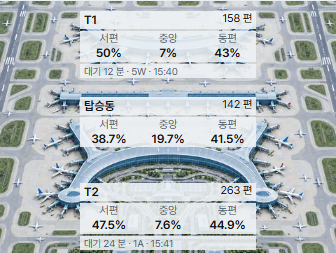
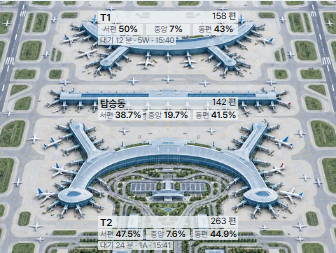
Shrink mobile airport labels and simplify worker summaries

Changed region(s): [[0.2381, 0.7194, 0.7738, 0.996], [0.2381, 0.0277, 0.7738, 0.332], [0.2381, 0.3597, 0.7738, 0.581]]

diff --git a/app/airport-glance-preview.tsx b/app/airport-glance-preview.tsx
@@ -61,8 +61,11 @@ export default function AirportGlancePreview({lang,artworkSrc=null}:{lang:Lang;a
  const futureReady=Boolean(data&&summary&&Number.isFinite(clock)&&Number.isFinite(Date.parse(summary.generatedAt)));
  const upcoming=futureReady&&data?glanceUpcoming(day,data.departures,clock):null;
  const future=isToday&&futureReady&&data?glanceFutureWindow(day,data.departures,clock,futureHours):null;
- const fc={ko:{title:'향후 시간대 항공편 분포',hours:'시간',ahead:'향후',zones:'위치 확인된 출발편 최다 구역',countries:'같은 시간 주요 목적지',basis:'선택 구간 출발 예정편 · 하루 전체와 별도 · 고객 수·매장 혼잡 아님',zoneBasis:'아래 비중은 각 건물 전체 기준 · 미정 포함',countryBasis:'선택 구간 전체 편수 기준 · 승객 국적 아님',closed:'오늘과 확인된 기준시각에서만 제공',midnight:'자정까지 표시 · 다음 날 자료 미포함',none:'선택 구간에 확인된 예정편 없음',more:'목적지 전체',unplaced:'건물 미정'},en:{title:'Upcoming flight distribution',hours:'h',ahead:'Next',zones:'Known zones with most departures',countries:'Destinations in the same window',basis:'Scheduled flights in selected window · separate from whole-day totals · not customers or shop crowding',zoneBasis:'Shares below use each building’s total, including unknown',countryBasis:'Share of all flights in this window · not passenger nationality',closed:'Available only for today with a verified clock',midnight:'Capped at midnight · next-day data not included',none:'No verified scheduled departures in this window',more:'All destinations',unplaced:'Unknown building'},zh:{title:'未来时段航班分布',hours:'小时',ahead:'未来',zones:'已确认位置中出发航班最多的区域',countries:'同时段主要目的地',basis:'所选时段计划出发航班 · 与全天分开 · 非顾客人数或店铺拥挤度',zoneBasis:'下列比例以各建筑全部航班为基数，含未定',countryBasis:'以所选时段全部航班为基数 · 非旅客国籍',closed:'仅限今日且基准时间已确认',midnight:'截至午夜 · 不含次日资料',none:'所选时段无已确认计划出发航班',more:'全部目的地',unplaced:'建筑未定'},ja:{title:'今後の時間帯の便分布',hours:'時間',ahead:'今後',zones:'位置確認済みの出発便が最多のエリア',countries:'同じ時間帯の主な目的地',basis:'選択時間帯の出発予定便 · 終日の値とは別 · 顧客数や店舗混雑ではありません',zoneBasis:'下記比率は各建物の全便が分母・未定を含む',countryBasis:'選択時間帯の全便が分母 · 旅客の国籍ではありません',closed:'今日かつ基準時刻を確認できる場合のみ',midnight:'午前0時まで · 翌日の資料は含みません',none:'選択時間帯に確認済みの出発予定便なし',more:'目的地をすべて表示',unplaced:'建物未定'}}[lang];
- const futureCountryLimit=future?.countries[4]?.flights??0,futureLeading=future?.countries.filter((row,index)=>index<5||row.flights===futureCountryLimit)??[],futureRest=future?.countries.filter(row=>!futureLeading.includes(row))??[];
+ const fc={ko:{title:'향후 시간대 항공편 분포',hours:'시간',ahead:'향후',zones:'앞으로 가장 몰릴 구역',countries:'곧 몰리는 목적지',basis:'선택 구간 출발 예정편 · 하루 전체와 별도 · 고객 수·매장 혼잡 아님',zoneBasis:'아래 비중은 각 건물 전체 기준 · 미정 포함',countryBasis:'선택 구간 전체 편수 기준 · 승객 국적 아님',closed:'오늘과 확인된 기준시각에서만 제공',midnight:'자정까지 표시 · 다음 날 자료 미포함',none:'선택 구간에 확인된 예정편 없음',more:'목적지 전체',unplaced:'건물 미정'},en:{title:'Upcoming flight distribution',hours:'h',ahead:'Next',zones:'Known zones with most departures',countries:'Destinations in the same window',basis:'Scheduled flights in selected window · separate from whole-day totals · not customers or shop crowding',zoneBasis:'Shares below use each building’s total, including unknown',countryBasis:'Share of all flights in this window · not passenger nationality',closed:'Available only for today with a verified clock',midnight:'Capped at midnight · next-day data not included',none:'No verified scheduled departures in this window',more:'All destinations',unplaced:'Unknown building'},zh:{title:'未来时段航班分布',hours:'小时',ahead:'未来',zones:'已确认位置中出发航班最多的区域',countries:'同时段主要目的地',basis:'所选时段计划出发航班 · 与全天分开 · 非顾客人数或店铺拥挤度',zoneBasis:'下列比例以各建筑全部航班为基数，含未定',countryBasis:'以所选时段全部航班为基数 · 非旅客国籍',closed:'仅限今日且基准时间已确认',midnight:'截至午夜 · 不含次日资料',none:'所选时段无已确认计划出发航班',more:'全部目的地',unplaced:'建筑未定'},ja:{title:'今後の時間帯の便分布',hours:'時間',ahead:'今後',zones:'位置確認済みの出発便が最多のエリア',countries:'同じ時間帯の主な目的地',basis:'選択時間帯の出発予定便 · 終日の値とは別 · 顧客数や店舗混雑ではありません',zoneBasis:'下記比率は各建物の全便が分母・未定を含む',countryBasis:'選択時間帯の全便が分母 · 旅客の国籍ではありません',closed:'今日かつ基準時刻を確認できる場合のみ',midnight:'午前0時まで · 翌日の資料は含みません',none:'選択時間帯に確認済みの出発予定便なし',more:'目的地をすべて表示',unplaced:'建物未定'}}[lang];
+ const futureCountryLimit=future?.countries[0]?.flights??0,futureLeading=future?.countries.filter((row,index)=>index<1||row.flights===futureCountryLimit)??[],futureRest=future?.countries.filter(row=>!futureLeading.includes(row))??[];
+ const compactCopy={ko:{zones:'구역별 보기',basis:'출발편 기준',building:'해당 건물 기준',rules:'집계 기준'},en:{zones:'All zones',basis:'Scheduled departures',building:'Share of this building',rules:'Counting basis'},zh:{zones:'各区域',basis:'计划出发航班',building:'以该建筑为基数',rules:'统计依据'},ja:{zones:'エリア別',basis:'出発便基準',building:'当該建物の比率',rules:'集計基準'}}[lang];
+ const futureTime=future?`${shortFutureTime(future.start)}–${future.end===Date.parse(`${day}T00:00:00+09:00`)+86_400_000?'24:00':shortFutureTime(future.end)} KST`:'';
+ function shortFutureTime(value:number){return new Intl.DateTimeFormat(lang,{timeZone:'Asia/Seoul',hour:'2-digit',minute:'2-digit',hour12:false}).format(new Date(value));}
  const stamp=(value:string|null|undefined)=>value&&Number.isFinite(Date.parse(value))?new Intl.DateTimeFormat(lang,{timeZone:'Asia/Seoul',month:'2-digit',day:'2-digit',hour:'2-digit',minute:'2-digit',hour12:false}).format(new Date(value))+' KST':'—';
  const shortTime=(value:string)=>new Intl.DateTimeFormat(lang,{timeZone:'Asia/Seoul',hour:'2-digit',minute:'2-digit',hour12:false}).format(new Date(value));
  const minuteText=(minute:number)=>`${String(Math.floor(minute/60)).padStart(2,'0')}:${String(minute%60).padStart(2,'0')}`;
@@ -89,7 +92,24 @@ export default function AirportGlancePreview({lang,artworkSrc=null}:{lang:Lang;a
   </div><details className="glance-context"><summary>{c.concept}</summary><p>{c.scope}</p><p>{c.scheduled}</p></details>{data&&data.unverifiedBuilding>0&&<p>{ui.building} {data.unverifiedBuilding} {c.unit}</p>}</section>
   <div className="glance-brief-data"><section className="glance-destinations" aria-label={dc.title}><div className="glance-day-comparison" data-testid="glance-day-comparison"><strong>{isToday?dailyCopy.today:dailyCopy.selected} {data?fmt.format(data.total):'—'} {c.unit}</strong><p>{dailyCopy.versus} {dailyComparison?<><b>{dailyComparison.delta>0?'+':dailyComparison.delta<0?'△':''}{fmt.format(Math.abs(dailyComparison.delta))} {c.unit}</b> (<ChangeRate value={dailyComparison.percent} lang={lang}/>)</>:dailyCopy.missing}</p><small>{day||'—'} KST · {scope==='all'?c.all:scope} · {dailyCopy.basis}<br/>{previousMonth||'—'} · {ui.days} {previous?.includedDays.length??'—'} {ui.dayUnit}{dailyComparison?` · ${dailyCopy.mean} ${fmt.format(dailyComparison.mean)} ${c.unit}`:''}</small></div><div className="glance-section-head"><h2>{dc.title}</h2><span>{day||'—'}</span></div><p>{dc.basis}</p>{data?<><ul>{leadingCountries.map(countryRow)}{unknownCountry&&countryRow(unknownCountry)}</ul>{data.total===0&&<p>0 {c.unit}</p>}</>:<p role="status">{c.missing}</p>}<a className="glance-detail-link" href={`${details}#airport-departure-model-slot`}>{dc.more} ({knownCountries.length}) ↗</a></section>
   <section className="glance-ranking"><div className="glance-section-head"><h2>{ic.growthTitle}</h2></div><p>{c.basis}</p><p className="glance-included-days">{ui.days} · {c.previous} {previous?`${previous.includedDays.length} ${ui.dayUnit}`:'—'} / {c.current} {current?`${current.includedDays.length} ${ui.dayUnit}`:'—'}</p><table><thead><tr><th>{ui.country}</th><th>{previous?.month??(previousMonth||'—')}</th><th>{month||'—'}</th><th>{c.change}</th></tr></thead><tbody>{ranking.map(row=><tr key={row.country} data-country={row.country}><th scope="row">{countryLabel(row.country)}</th><td>{fmt.format(row.previous!)}</td><td>{fmt.format(row.current!)}</td><td><ChangeRate value={row.percent} lang={lang}/></td></tr>)}</tbody></table>{!ranking.length&&<p role="status">{month&&monthRequest.pending?c.loading:c.missing}</p>}<small>{ui.mean}</small><a className="glance-detail-link" href={`${details}#airport-monthly-flights`}>{c.detail} ↗</a></section></div>
-  <section className="glance-future" data-testid="glance-future"><div className="glance-future-heading"><h2>{fc.title}</h2><div role="group" aria-label={fc.title}>{([1,3,6] as const).map(hours=><button key={hours} aria-pressed={futureHours===hours} onClick={()=>setFutureHours(hours)}>{fc.ahead} {hours} {fc.hours}</button>)}</div></div><p>{future?`${day} ${shortTime(new Date(future.start).toISOString())}–${future.end===Date.parse(`${day}T00:00:00+09:00`)+86_400_000?'24:00':shortTime(new Date(future.end).toISOString())} KST · ${scope==='all'?c.all:scope} · ${future.total} ${c.unit}`:fc.closed}</p><small>{fc.basis}{future?.clipped?` · ${fc.midnight}`:''}</small><div className="glance-future-cards"><article data-testid="glance-future-zones"><h2>{fc.zones}</h2>{!future?<p>{ic.unavailable}</p>:future.total===0?<p>{fc.none}</p>:<><p>{future.leaders.length?future.leaders.map(row=>`${buildingNames[row.building]} ${row.side==='WEST'?c.west:row.side==='CENTER'?c.center:c.east} · ${row.flights} ${c.unit}`).join(' / '):c.unknown}{future.leaders.length>1?` · ${ic.tie}`:''}</p><table><thead><tr><th>{ui.terminal}</th>{[c.west,c.center,c.east].map(side=><th key={side}>{side}</th>)}</tr></thead><tbody>{(['T1','CONCOURSE','T2'] as const).filter(building=>scope==='all'||scope===building||(scope==='T1'&&building==='CONCOURSE')).map(building=>{const counts=future.buildings[building];return <tr key={building}><th>{buildingNames[building]}<small>{counts.total} {c.unit}{counts.UNVERIFIED>0?` · ${c.unknown} ${counts.UNVERIFIED}`:''}</small></th>{(['WEST','CENTER','EAST'] as const).map(side=><td key={side}>{counts[side]} {c.unit}<small>{counts.total>0?`${fmt.format(counts[side]/counts.total*100)}%`:'—'}</small></td>)}</tr>;})}</tbody></table><small>{fc.zoneBasis}</small>{future.unknownBuilding>0&&<p>{fc.unplaced} {future.unknownBuilding} {c.unit}</p>}</>}</article><article data-testid="glance-future-countries"><h2>{fc.countries}</h2>{!future?<p>{ic.unavailable}</p>:future.total===0?<p>{fc.none}</p>:<><ul>{futureLeading.map(row=><li key={row.country??'UNKNOWN'}><span>{row.country?countryLabel(row.country):dc.unknown}</span><span>{row.flights} {c.unit}</span><strong>{fmt.format(row.flights/future.total*100)}%</strong></li>)}</ul>{futureRest.length>0&&<details><summary>{fc.more} ({future.countries.length})</summary><ul>{futureRest.map(row=><li key={row.country??'UNKNOWN'}><span>{row.country?countryLabel(row.country):dc.unknown}</span><span>{row.flights} {c.unit}</span><strong>{fmt.format(row.flights/future.total*100)}%</strong></li>)}</ul></details>}<small>{fc.countryBasis}</small></>}</article></div></section>
+  <section className="glance-future" data-testid="glance-future">
+   <div className="glance-future-heading"><div role="group" aria-label={fc.title}>{([1,3,6] as const).map(hours=><button key={hours} aria-pressed={futureHours===hours} onClick={()=>setFutureHours(hours)}>{fc.ahead} {hours} {fc.hours}</button>)}</div></div>
+   <div className="glance-future-cards">
+    <article data-testid="glance-future-zones"><h2>{fc.zones}</h2>{!future?<p>{ic.unavailable}</p>:future.total===0?<p>{fc.none}</p>:<>
+     <div className="glance-future-leaders">{future.leaders.length?future.leaders.map(row=><div key={`${row.building}-${row.side}`}><strong>{buildingNames[row.building]} {row.side==='WEST'?c.west:row.side==='CENTER'?c.center:c.east}</strong><span>{row.flights} {c.unit} · <b>{fmt.format(row.flights/future.buildings[row.building].total*100)}%</b></span></div>):<p>{c.unknown}</p>}</div>
+     <small className="glance-window-note">{futureTime} · {compactCopy.basis} · {compactCopy.building}{future.leaders.length>1?` · ${ic.tie}`:''}</small>
+     <details><summary>{compactCopy.zones}</summary><table><thead><tr><th>{ui.terminal}</th>{[c.west,c.center,c.east].map(side=><th key={side}>{side}</th>)}</tr></thead><tbody>{(['T1','CONCOURSE','T2'] as const).filter(building=>scope==='all'||scope===building||(scope==='T1'&&building==='CONCOURSE')).map(building=>{const counts=future.buildings[building];return <tr key={building}><th>{buildingNames[building]}<small>{counts.total} {c.unit}{counts.UNVERIFIED>0?` · ${c.unknown} ${counts.UNVERIFIED}`:''}</small></th>{(['WEST','CENTER','EAST'] as const).map(side=><td key={side}>{counts[side]} {c.unit}<small>{counts.total>0?`${fmt.format(counts[side]/counts.total*100)}%`:'—'}</small></td>)}</tr>;})}</tbody></table><small>{fc.zoneBasis}</small></details>{future.unknownBuilding>0&&<p>{fc.unplaced} {future.unknownBuilding} {c.unit}</p>}
+    </>}</article>
+    <article data-testid="glance-future-countries"><h2>{fc.countries}</h2>{!future?<p>{ic.unavailable}</p>:future.total===0?<p>{fc.none}</p>:<>
+     <ul className="glance-future-leaders">{futureLeading.map(row=><li key={row.country??'UNKNOWN'}><strong>{row.country?countryLabel(row.country):dc.unknown}</strong><span>{row.flights} {c.unit}</span><strong>{fmt.format(row.flights/future.total*100)}%</strong></li>)}</ul>
+     <small className="glance-window-note">{futureTime} · {compactCopy.basis} · {c.all} {future.total} {c.unit}</small>
+     {futureRest.length>0&&<details><summary>{fc.more} ({future.countries.length})</summary><ul>{futureRest.map(row=><li key={row.country??'UNKNOWN'}><span>{row.country?countryLabel(row.country):dc.unknown}</span><span>{row.flights} {c.unit}</span><strong>{fmt.format(row.flights/future.total*100)}%</strong></li>)}</ul><small>{fc.countryBasis}</small></details>}
+    </>}</article>
+   </div>
+   <p>{future?`${day} ${futureTime} · ${scope==='all'?c.all:scope} · ${future.total} ${c.unit}`:fc.closed}</p>
+   {future?.clipped&&<small>{fc.midnight}</small>}
+   <details className="glance-context"><summary>{compactCopy.rules}</summary><p>{fc.basis}</p><p>{fc.countryBasis}</p><p>{fc.zoneBasis}</p></details>
+  </section>
    <nav className="glance-actions" aria-label={ui.more}><a href={`/${lang}/airport-news`}><strong>{c.news}</strong><span>{c.newsNote} ↗</span></a></nav>
   <footer><span>{c.collected} · {stamp(payload?.retrievedAt)}</span><span>{c.monthTime} · {stamp(monthRequest.reply?.calculatedAt)}</span><a href="https://www.airport.kr/geomap/ap_ko/view.do" target="_blank" rel="noreferrer">{ui.map} ↗</a></footer>
  </main>;

diff --git a/e2e/airport-glance-preview.spec.ts b/e2e/airport-glance-preview.spec.ts
@@ -23,14 +23,14 @@ for(const width of [360,390,430,1440])test(`decision summary with image overlays
  await expect(app.locator('.glance-destinations li[data-country=JP]')).toContainText('100%');await expect(app.locator('.glance-destinations li[data-country=JP] img')).toHaveAttribute('src','/images/airport-flags/JP.webp');await expect(app.getByTestId('glance-key-growth').locator('img')).toHaveAttribute('src','/images/airport-flags/fallback/tw.svg');await expect(app.locator('.glance-ranking [data-country=TW] img')).toHaveAttribute('src','/images/airport-flags/fallback/tw.svg');await expect(app.locator('.glance-ranking tbody tr')).toHaveCount(5);
  await expect(app.getByTestId('glance-day-comparison')).toContainText('오늘 출발편 300 편');await expect(app.getByTestId('glance-day-comparison')).toContainText('+293 편');await expect(app.getByTestId('glance-day-comparison')).toContainText('+4185.7%');await expect(app.locator('a[href*=airport-departure-preparation]')).toHaveCount(0);
  await expect(app.locator('.glance-map-queue')).toHaveCount(2);await expect(app.locator('.glance-building-CONCOURSE .glance-map-queue')).toHaveCount(0);await expect(app.locator('.glance-location-note')).toHaveCount(0);
- await expect(app.locator('.glance-building').first()).toHaveCSS('width',width<=700?'176px':'225px');await expect(app.locator('.glance-building dl').first()).toHaveCSS('display',width<=700?'grid':'flex');
- if(width<=700){await expect(app.locator('.glance-building').first()).toHaveCSS('background-color','rgba(0, 0, 0, 0)');await expect(app.locator('.glance-building dd').first()).toHaveCSS('font-size','12px');}
+ await expect(app.locator('.glance-building').first()).toHaveCSS('width',width<=700?'140px':'225px');await expect(app.locator('.glance-building dl').first()).toHaveCSS('display',width<=700?'grid':'flex');
+ if(width<=700){await expect(app.locator('.glance-building').first()).toHaveCSS('background-color','rgba(0, 0, 0, 0)');await expect(app.locator('.glance-building dd').first()).toHaveCSS('font-size','9px');}
  const imageBox=await app.locator('.glance-art-frame>img').boundingBox(),labels=await app.locator('.glance-building').evaluateAll(nodes=>nodes.map(node=>{const b=node.getBoundingClientRect();return {x:b.x,y:b.y,right:b.right,bottom:b.bottom};}));
  for(const box of labels){expect(box.x).toBeGreaterThanOrEqual(imageBox!.x);expect(box.right).toBeLessThanOrEqual(imageBox!.x+imageBox!.width+1);expect(box.y).toBeGreaterThanOrEqual(imageBox!.y);expect(box.bottom).toBeLessThanOrEqual(imageBox!.y+imageBox!.height+1);}expect(labels[0].bottom).toBeLessThan(labels[1].y);expect(labels[1].bottom).toBeLessThan(labels[2].y);
  await expect(app.locator('.glance-bars,.glance-hour-picker,.glance-destinations details')).toHaveCount(0);await expect(app.locator('.glance-included-days')).toHaveText('포함일 · 전월 1 일 / 선택월 1 일');
  await expect(app.getByRole('link',{name:'국가 전체 보기 (1) ↗'})).toHaveAttribute('href',new RegExp('#airport-departure-model-slot$'));
  await app.getByRole('button',{name:'T1',exact:true}).click();await expect(app.getByTestId('glance-key-wait')).toContainText('T1 출국장 2E · 12 분');await expect(app.locator('.glance-map-heading')).toContainText('156 편');
- const disclosure=app.locator('.glance-context summary');await disclosure.focus();await page.keyboard.press('Enter');await expect(app.locator('.glance-context p').first()).toBeVisible();expect(await page.evaluate(()=>document.documentElement.scrollWidth<=innerWidth+1)).toBe(true);expect(errors).toEqual([]);
+ const disclosure=app.locator('.glance-airport>.glance-context summary');await disclosure.focus();await page.keyboard.press('Enter');await expect(app.locator('.glance-airport>.glance-context p').first()).toBeVisible();expect(await page.evaluate(()=>document.documentElement.scrollWidth<=innerWidth+1)).toBe(true);expect(errors).toEqual([]);
 });
 test('rapid past-day changes clear present waits and upcoming departures',async({page})=>{
  await routeData(page);await page.goto('/ko/airport-glance-preview');const app=page.getByTestId('airport-glance-preview');await expect(app.getByTestId('glance-key-wait')).toContainText('24 분');
@@ -56,9 +56,9 @@ test('pending past-day summary stays unavailable until its matching response arr
 });
 
 test('future cards share hours and terminal scope without changing whole-day comparison',async({page})=>{
- await routeData(page);await page.setViewportSize({width:390,height:1000});await page.goto('/ko/airport-glance-preview');const app=page.getByTestId('airport-glance-preview'),future=app.getByTestId('glance-future');
+ await routeData(page);await page.setViewportSize({width:390,height:1000});await page.goto('/ko/airport-glance-preview');const app=page.getByTestId('airport-glance-preview'),future=app.getByTestId('glance-future');await expect(future.getByRole('heading',{name:'앞으로 가장 몰릴 구역',exact:true})).toBeVisible();await expect(future.getByRole('heading',{name:'곧 몰리는 목적지',exact:true})).toBeVisible();
  await expect(future.locator(':scope>p')).toContainText('10:15–11:15 KST · 전체 · 12 편');await expect(app.getByTestId('glance-future-countries')).toContainText('12 편');await expect(app.getByTestId('glance-future-countries')).toContainText('100%');
- await future.getByRole('button',{name:'향후 3 시간',exact:true}).click();await expect(future.locator(':scope>p')).toContainText('10:15–13:15 KST · 전체 · 39 편');await expect(app.getByTestId('glance-future-countries')).toContainText('39 편');await expect(app.getByTestId('glance-future-zones')).toContainText('20 편');await expect(app.getByTestId('glance-day-comparison')).toContainText('300 편');
+ await future.getByRole('button',{name:'향후 3 시간',exact:true}).click();await expect(future.locator(':scope>p')).toContainText('10:15–13:15 KST · 전체 · 39 편');await expect(app.getByTestId('glance-future-countries')).toContainText('39 편');await app.getByTestId('glance-future-zones').getByText('구역별 보기',{exact:true}).click();await expect(app.getByTestId('glance-future-zones')).toContainText('20 편');await expect(app.getByTestId('glance-day-comparison')).toContainText('300 편');
  await future.getByRole('button',{name:'향후 6 시간',exact:true}).click();await expect(future.locator(':scope>p')).toContainText('87 편');
  await app.getByRole('button',{name:'T2',exact:true}).click();await expect(app.getByTestId('glance-day-comparison')).toContainText('오늘 출발편 144 편');await expect(app.getByTestId('glance-day-comparison')).toContainText('비교 불가');await expect(future.locator(':scope>p')).toContainText('T2 · 42 편');
  await app.locator('input[type=date]').fill('2026-10-10');await expect(app.getByTestId('glance-future-zones')).toContainText('확인 가능한 자료 없음');await expect(app.getByTestId('glance-future-countries')).toContainText('확인 가능한 자료 없음');expect(await page.evaluate(()=>document.documentElement.scrollWidth<=innerWidth+1)).toBe(true);

diff --git a/app/airport-glance-preview.css b/app/airport-glance-preview.css
@@ -44,3 +44,9 @@ body:has(.glance-preview){background:#e9eef1}
 
 .glance-future{margin-top:16px;padding-top:12px;border-top:1px solid #dbe0e5}.glance-future-heading{display:flex;justify-content:space-between;align-items:center;gap:12px;flex-wrap:wrap}.glance-future button{border:0;background:none;min-height:44px;padding:6px 10px;cursor:pointer}.glance-future button[aria-pressed=true]{box-shadow:inset 0 -2px #43617f;font-weight:600}.glance-future>small,.glance-future article>small{display:block;color:#53616e;font-size:10px}.glance-future-cards{display:grid;grid-template-columns:1fr 1fr;gap:28px;margin-top:10px}.glance-future article{min-width:0}.glance-future table{width:100%;border-collapse:collapse;font-size:11px;margin:6px 0}.glance-future th,.glance-future td{padding:4px 2px;text-align:right;border-bottom:1px solid #dbe0e5}.glance-future th:first-child{text-align:left}.glance-future td small,.glance-future th small{display:block;font-size:10px;font-weight:400;color:#53616e}.glance-future ul{list-style:none;padding:0;margin:6px 0}.glance-future li{display:grid;grid-template-columns:minmax(0,1fr) auto 54px;gap:8px;padding:4px 0;border-bottom:1px solid #dbe0e5}.glance-future li strong{text-align:right}.glance-future summary{min-height:44px;display:flex;align-items:center;cursor:pointer}.glance-future summary::after{content:' +'}
 @media(max-width:700px){.glance-future-cards{grid-template-columns:1fr;gap:16px}.glance-future-heading{gap:2px}.glance-future-heading>div{width:100%;display:flex;justify-content:space-between}}
+
+/* Owner revision: genuinely small image labels on mobile; desktop is unchanged. */
+@media(max-width:700px){.glance-art-frame[data-artwork=ready] .glance-building{width:140px}.glance-building h2{font-size:10px;line-height:1.2;padding:0 2px;background:rgb(237 242 245 / 78%)}.glance-building h2 span{font-size:9px}.glance-building dl{padding:0;background:transparent;gap:3px;margin:1px 0;line-height:1.2}.glance-building dl>div{display:flex;justify-content:center;gap:2px;padding:0 1px;background:rgb(237 242 245 / 78%)}.glance-building dt{font-size:8px}.glance-building dd{font-size:9px}.glance-building .glance-map-queue,.glance-building .glance-location-note{font-size:8px!important;line-height:1.2;width:max-content;max-width:100%;padding:0 2px;margin-top:1px;background:rgb(237 242 245 / 78%)} }
+.glance-future-leaders{margin:6px 0}.glance-future-leaders>div{display:flex;align-items:baseline;justify-content:space-between;gap:8px;padding:3px 0}.glance-future-leaders strong{font-size:14px;font-weight:600}.glance-future article>.glance-window-note{font-size:10px;color:#53616e}.glance-future .glance-future-cards{margin-top:4px}.glance-future>p{font-size:10px;color:#53616e;margin-top:6px}.glance-future details>small{display:block;color:#53616e;font-size:10px}
+
+.glance-future-leaders li>strong:first-child{text-align:left}

diff --git a/docs/AIRPORT_GLANCE_APPROVED_PREVIEW_20261012.md b/docs/AIRPORT_GLANCE_APPROVED_PREVIEW_20261012.md
@@ -57,8 +57,27 @@ Validation: 7 scoped unit tests pass (scope/dedupe, missing/zero baseline, futur
 
 ### Deferred navigation requirement — do not implement before final glance approval
 
-User explicitly asked to remember only: after airport glance is finalized, replace the mobile store navigation button with airport glance, and use desktop/mobile order: Airport glance → Airport → Seoul glance → Seoul → Consumption flow → More. This is a later completion checklist item. No global navigation, store page or store feature was changed in this follow-up. Merge and deployment still require separate approval.
+User explicitly asked to remember only: after airport glance is finalized, replace only the mobile store navigation button with airport glance. Preserve the PC store button. Requested primary sequence: Airport glance → Airport → Seoul glance → Seoul → Consumption flow → More; the PC store placement between Consumption flow and More is a parent proposal, not a finalized instruction. This is a later completion checklist item. No global navigation, store page or store feature was changed in this follow-up. Merge and deployment still require separate approval.
 
 ### Data limits for subsequent candidate research
 
 Available here: selected-day scheduled departures, terminal/building/gate/side mapping, mapped destination countries, verified current queue observations, and monthly included-day flight aggregates. They support aircraft distribution/comparisons; they do not establish passenger nationality, actual visitors, staffing demand, store sales, or shop congestion. Future summaries currently consume only the selected day's verified flight response.
+
+
+## 2026-10-12 compact-label revision after 88598c7e
+
+The owner explicitly superseded the previous keep-font-size constraint: both mobile text and white area were still too large. Mobile overlays now use 140px width and one short inline direction/ratio row. Heading 12→10px, count 11→9px, direction 11→8px, ratio 12→9px, queue 10→8px. Only narrow text backplates remain (78% opacity); no large plate or shadow. Desktop image/overlay geometry and typography are unchanged.
+
+Same actual response, time, DPR1 and 390×844 viewport, before 88598c7e → after:
+- T1/T2: 176×67.27 → 140×34.39px (about 59.3% smaller bounding area).
+- Concourse: 176×52.77 → 140×24.80px (about 62.6% smaller area).
+- Combined bounding area: about 60.3% less. Image remains x12/y414.81, 366×274.5px.
+- PC remains 225px wide, 93.5/78.5/93.5px high with identical positions/font sizes; image 800×600px at the same position.
+
+The two Korean headings now exactly match the promise: 앞으로 가장 몰릴 구역 / 곧 몰리는 목적지. Representative known zones (all count ties) and leading destinations (all maximum ties) appear first, then flights/percentage, then a short time/basis line. Zone percentage remains the named building denominator; destination percentage remains the shared selected-window total. Detailed zone table, remaining destinations and longer counting caveats remain accessible in disclosures. No calculations, missing-data guards, future selector, or whole-day comparisons were changed.
+
+Evidence is under docs/screenshots/airport-glance-compact-20261012: before-88598c7e-390-viewport.png and after-390-viewport.png are both exactly 390×844, without magnifying the airport. Matching -full.png files show the entire page at the same width, including the two summaries. JSON files record measured geometry/font sizes. 1440px evidence verifies the unchanged PC airport. Existing overlay captures were also refreshed. Hidden country flags now intentionally lazy-load when their destination disclosure is opened.
+
+Scoped verification: 3 language cases and the synchronized future-window/detail disclosure case passed; the four viewport cases initially found an ambiguous keyboard test selector after adding the counting-basis disclosure. The selector now explicitly targets the existing airport concept disclosure, preserving the keyboard assertion, and those four viewport cases were rerun. No full manual suite, data changes or deployment.
+
+Final result: all 8 scoped browser cases pass (4 viewport cases after selector correction, 3 languages and future-window case). Typecheck/native build pass; scoped lint zero errors, two existing static-image advisories.
